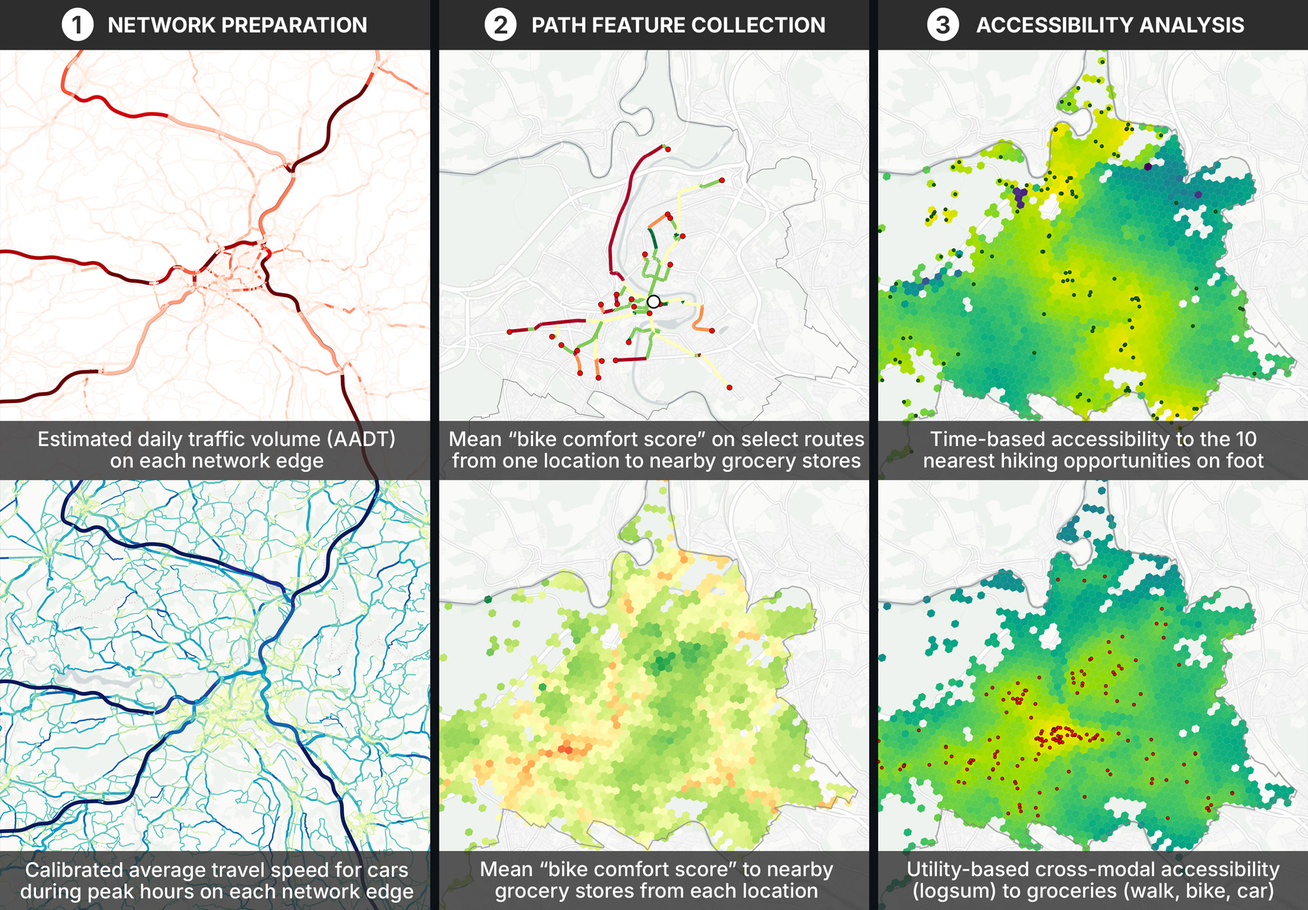
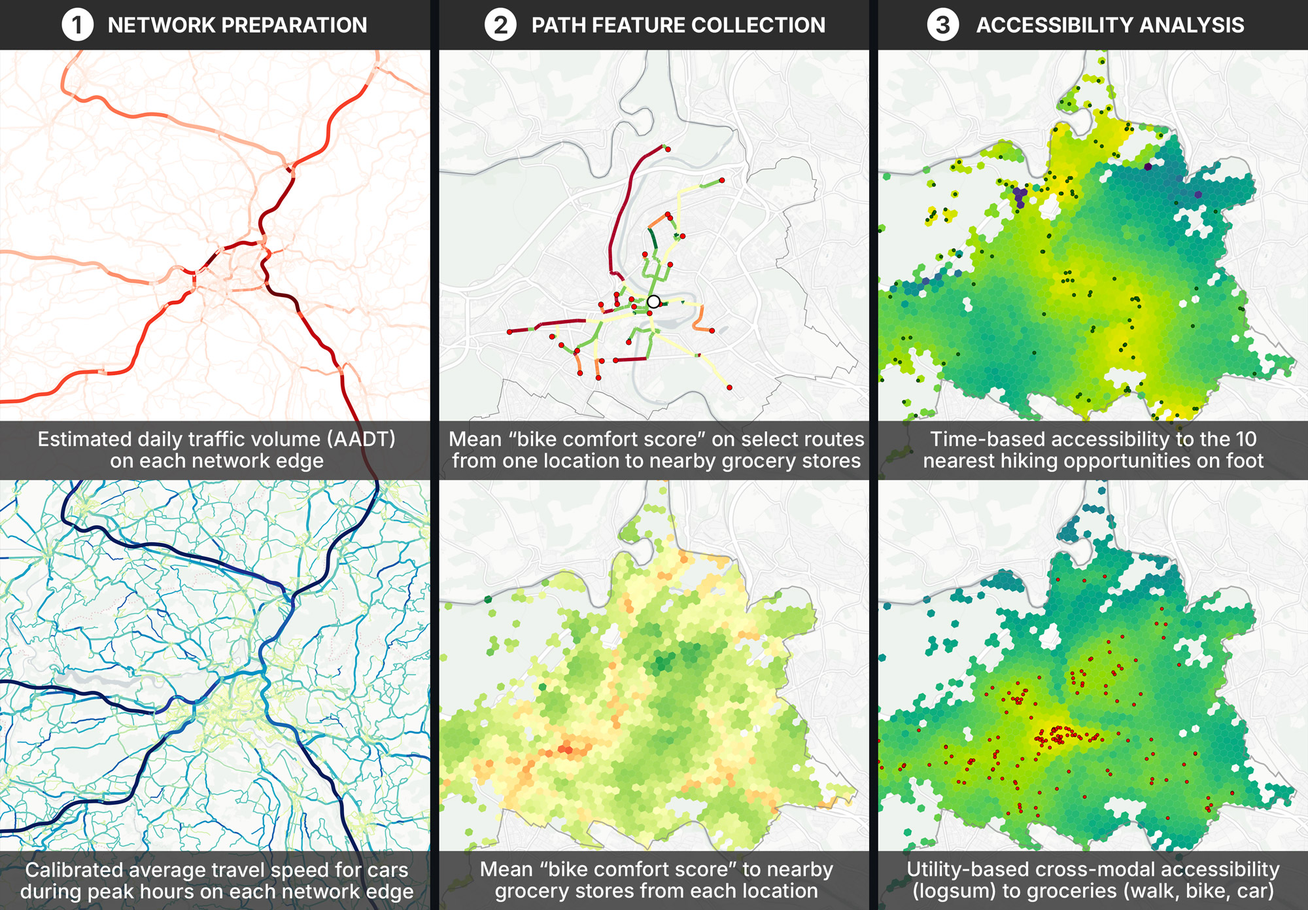
Lint error correction

diff --git a/tests/test_traffic_flows.py b/tests/test_traffic_flows.py
@@ -479,20 +479,20 @@ class BinAdjustedDestWeightsTestCase(unittest.TestCase):
         self.bin_edges = np.array([0.0, 10.0, 20.0, 40.0, 60.0])  # 4 bins
         self.pairs = TieredODNodePairs(
             cells_to_cells={
-                "rich":   np.array(["d1", "d2", "d3", "d4", "d5", "d6"]),
+                "rich": np.array(["d1", "d2", "d3", "d4", "d5", "d6"]),
                 "sparse": np.array(["d1", "d2", "d3", "d4", "d5", "d6"]),
             },
         )
         self.costs = TieredODNodePairs(
             cells_to_cells={
-                "rich":   np.array([5.0, 15.0, 25.0, 35.0, 45.0, 55.0]),
-                "sparse": np.array([5.0,  5.0, 55.0, 55.0, 55.0, 55.0]),
+                "rich": np.array([5.0, 15.0, 25.0, 35.0, 45.0, 55.0]),
+                "sparse": np.array([5.0, 5.0, 55.0, 55.0, 55.0, 55.0]),
             },
         )
         # Uniform W(D) = 1 for all destinations.
         self.weights = TieredODNodePairs(
             cells_to_cells={
-                "rich":   np.ones(6),
+                "rich": np.ones(6),
                 "sparse": np.ones(6),
             },
         )
@@ -503,9 +503,7 @@ class BinAdjustedDestWeightsTestCase(unittest.TestCase):
         return np.digitize(costs, self.bin_edges) - 1
 
     def test_returns_same_subclass(self):
-        adj = bin_adjusted_dest_weights(
-            self.pairs, self.costs, self.weights, self.bin_edges
-        )
+        adj = bin_adjusted_dest_weights(self.pairs, self.costs, self.weights, self.bin_edges)
         self.assertIsInstance(adj, TieredODNodePairs)
 
     def test_per_bin_total_matches_target_for_rich_origin(self):
@@ -513,7 +511,10 @@ class BinAdjustedDestWeightsTestCase(unittest.TestCase):
         should equal target = 1/n_bins (before renormalize) or stay
         proportional after."""
         adj = bin_adjusted_dest_weights(
-            self.pairs, self.costs, self.weights, self.bin_edges,
+            self.pairs,
+            self.costs,
+            self.weights,
+            self.bin_edges,
             renormalize_per_origin=False,
         )
         w_rich = adj.cells_to_cells["rich"]
@@ -528,7 +529,10 @@ class BinAdjustedDestWeightsTestCase(unittest.TestCase):
         target is uniform 1/n_bins), regardless of how many destinations
         each bin holds."""
         adj = bin_adjusted_dest_weights(
-            self.pairs, self.costs, self.weights, self.bin_edges,
+            self.pairs,
+            self.costs,
+            self.weights,
+            self.bin_edges,
             renormalize_per_origin=True,
         )
         w_sparse = adj.cells_to_cells["sparse"]
@@ -562,7 +566,10 @@ class BinAdjustedDestWeightsTestCase(unittest.TestCase):
 
     def test_renormalize_makes_sparse_and_rich_have_same_total(self):
         adj = bin_adjusted_dest_weights(
-            self.pairs, self.costs, self.weights, self.bin_edges,
+            self.pairs,
+            self.costs,
+            self.weights,
+            self.bin_edges,
             renormalize_per_origin=True,
         )
         np.testing.assert_allclose(adj.cells_to_cells["rich"].sum(), 1.0, rtol=1e-12)
@@ -570,7 +577,10 @@ class BinAdjustedDestWeightsTestCase(unittest.TestCase):
 
     def test_no_renormalize_makes_sparse_total_less_than_rich(self):
         adj = bin_adjusted_dest_weights(
-            self.pairs, self.costs, self.weights, self.bin_edges,
+            self.pairs,
+            self.costs,
+            self.weights,
+            self.bin_edges,
             renormalize_per_origin=False,
         )
         # rich: 4 populated bins × 0.25 = 1.0;
@@ -651,19 +661,17 @@ class BinAdjustedDestWeightsTestCase(unittest.TestCase):
         weights = TieredODNodePairs(
             cells_to_cells={"c1": np.array([1.0])},
         )
-        adj = bin_adjusted_dest_weights(
-            pairs, costs, weights, self.bin_edges
-        )
+        adj = bin_adjusted_dest_weights(pairs, costs, weights, self.bin_edges)
         self.assertIsNone(adj.cells_to_zones)
         self.assertIsNone(adj.zones_to_zones)
 
     def test_invalid_bin_edges_raises(self):
         with self.assertRaisesRegex(ValueError, "non-decreasing"):
             bin_adjusted_dest_weights(
-                self.pairs, self.costs, self.weights,
+                self.pairs,
+                self.costs,
+                self.weights,
                 np.array([0.0, 10.0, 5.0, 20.0]),  # not monotone
             )
         with self.assertRaisesRegex(ValueError, "length >= 2"):
-            bin_adjusted_dest_weights(
-                self.pairs, self.costs, self.weights, np.array([0.0])
-            )
+            bin_adjusted_dest_weights(self.pairs, self.costs, self.weights, np.array([0.0]))

diff --git a/docs/conf.py b/docs/conf.py
@@ -18,13 +18,13 @@ version = ".".join(release.split(".")[:2])
 # -- General configuration ---------------------------------------------------
 
 extensions = [
-    "sphinx.ext.autodoc",       # pulls docstrings from importable modules
-    "sphinx.ext.autosummary",   # generates summary tables for autodoc entries
-    "sphinx.ext.napoleon",      # parses Google-style docstrings
-    "sphinx.ext.intersphinx",   # cross-link to numpy / pandas / networkx docs
-    "sphinx.ext.viewcode",      # adds [source] links to each function
-    "myst_parser",              # markdown support for narrative pages
-    "nbsphinx",                 # render jupyter notebooks under docs/examples/
+    "sphinx.ext.autodoc",  # pulls docstrings from importable modules
+    "sphinx.ext.autosummary",  # generates summary tables for autodoc entries
+    "sphinx.ext.napoleon",  # parses Google-style docstrings
+    "sphinx.ext.intersphinx",  # cross-link to numpy / pandas / networkx docs
+    "sphinx.ext.viewcode",  # adds [source] links to each function
+    "myst_parser",  # markdown support for narrative pages
+    "nbsphinx",  # render jupyter notebooks under docs/examples/
 ]
 
 source_suffix = {
@@ -47,9 +47,9 @@ autodoc_default_options = {
     "show-inheritance": True,
     "member-order": "bysource",
 }
-autodoc_typehints = "description"   # render type hints in the description, not signatures
+autodoc_typehints = "description"  # render type hints in the description, not signatures
 autodoc_typehints_format = "short"  # `dict` not `typing.Dict`
-autoclass_content = "class"         # docstring from __init__ + class merged
+autoclass_content = "class"  # docstring from __init__ + class merged
 
 # -- Napoleon (Google-style docstrings) -------------------------------------
 
@@ -57,14 +57,16 @@ napoleon_google_docstring = True
 napoleon_numpy_docstring = False
 napoleon_include_init_with_doc = True
 napoleon_use_admonition_for_notes = True
-napoleon_use_ivar = True  # render Attributes as :ivar — avoids duplicate-doc warning for dataclasses
+napoleon_use_ivar = (
+    True  # render Attributes as :ivar — avoids duplicate-doc warning for dataclasses
+)
 
 # -- MyST (markdown) ---------------------------------------------------------
 
 myst_enable_extensions = [
-    "colon_fence",   # ::: fenced directives
-    "deflist",       # definition lists
-    "smartquotes",   # typographic quotes
+    "colon_fence",  # ::: fenced directives
+    "deflist",  # definition lists
+    "smartquotes",  # typographic quotes
 ]
 myst_heading_anchors = 3
 
@@ -95,7 +97,9 @@ nbsphinx_allow_errors = True
 # Exclude prep notebooks from sphinx autodiscovery — they ship outputs but
 # aren't part of the "tutorial" notebook set we want to surface in docs.
 exclude_patterns = [
-    "_build", "Thumbs.db", ".DS_Store",
+    "_build",
+    "Thumbs.db",
+    ".DS_Store",
     "examples/prepare/**",
 ]
 

diff --git a/src/aperta/traffic_flows.py b/src/aperta/traffic_flows.py
@@ -373,9 +373,7 @@ def bin_adjusted_dest_weights(
                 continue
             # Per-bin total weight (vectorised with bincount).
             bin_idx_safe = np.where(in_range, bin_idx, 0)
-            bin_sums = np.bincount(
-                bin_idx_safe, weights=w_arr * in_range, minlength=n_bins
-            )
+            bin_sums = np.bincount(bin_idx_safe, weights=w_arr * in_range, minlength=n_bins)
             # Per-bin scaling factor: target_mass / available_mass, 0 for empty bins.
             scale = np.zeros(n_bins, dtype=float)
             populated = bin_sums > 0
